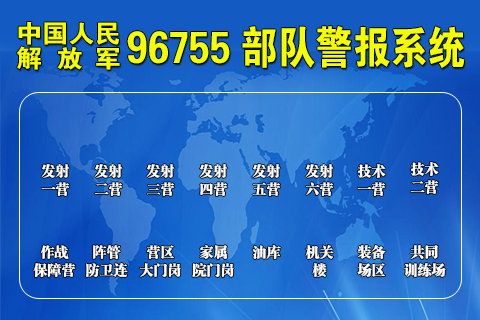
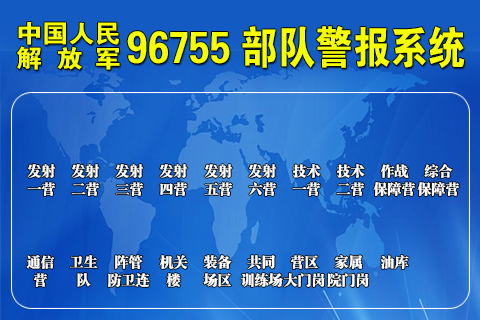
add new units

diff --git a/board.py b/board.py
@@ -6,7 +6,9 @@ def get_wire_status():
     return status
 
 pygame.init()
-screen=pygame.display.set_mode((480,320),pygame.FULLSCREEN,24)
+x=pygame.FULLSCREEN
+x=1
+screen=pygame.display.set_mode((480,320),x,24)
 
 
 background=pygame.image.load('背景.png')
@@ -22,16 +24,17 @@ while not done:
 
     status=get_wire_status()
     for i,s in enumerate(status):
-        if i<len(status)/2:
+        if i<int(len(status)/2)+1:
+            print(int(len(status)/2)+1)
             if s=='0':
-                screen.blit(show_pic_white,(44+i*53,135))
+                screen.blit(show_pic_white,(33+i*44,135))
             elif s=='1':
-                screen.blit(show_pic_black,(44+i*53,135))
-        if i>=len(status)/2:
+                screen.blit(show_pic_black,(33+i*44,135))
+        if i>=int(len(status)/2)+1:
             if s=='0':
-                screen.blit(show_pic_white,(44+(i-len(status)/2)*53,215))
+                screen.blit(show_pic_white,(33+(i-(int(len(status)/2)+1))*44,225))
             elif s=='1':
-                screen.blit(show_pic_black,(44+(i-len(status)/2)*53,215))
+                screen.blit(show_pic_black,(33+(i-(int(len(status)/2)+1))*44,225))
             
     pygame.display.update() 
 

diff --git a/wire_status.py b/wire_status.py
@@ -2,7 +2,7 @@
 import time
 
 
-units_order=['发射一营','发射二营','发射三营','发射四营','发射五营','发射六营','技术一营','技术二营','作战保障营','阵管防卫连','营区大门岗','家属院门岗','油库','机关楼','装备场区','共同训练场']
+units_order=['发射一营','发射二营','发射三营','发射四营','发射五营','发射六营','技术一营','技术二营','作战保障营','综合保障营','通信营','卫生队','阵管防卫连','营区大门岗','家属院门岗','油库','机关楼','装备场区','共同训练场']
 
 
 
